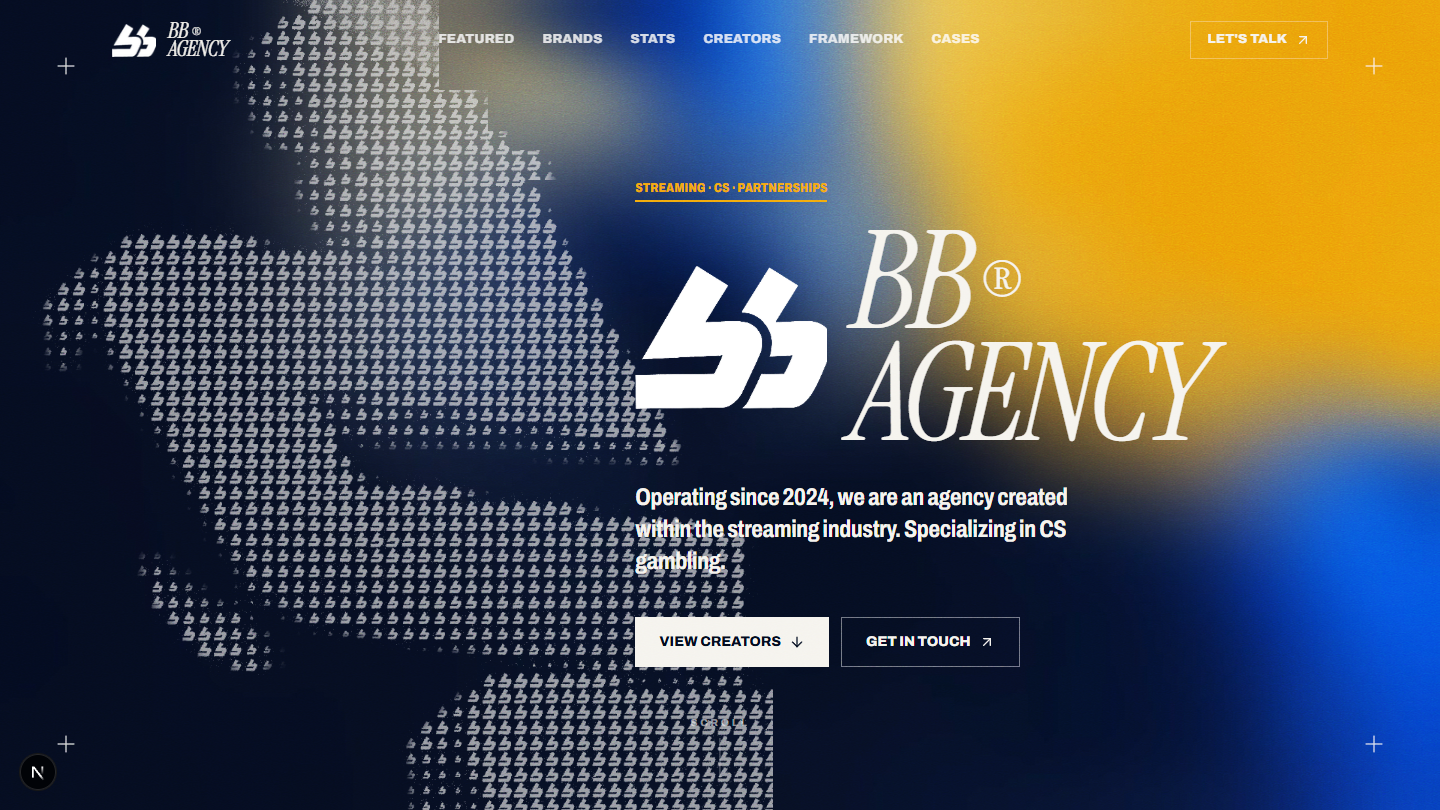
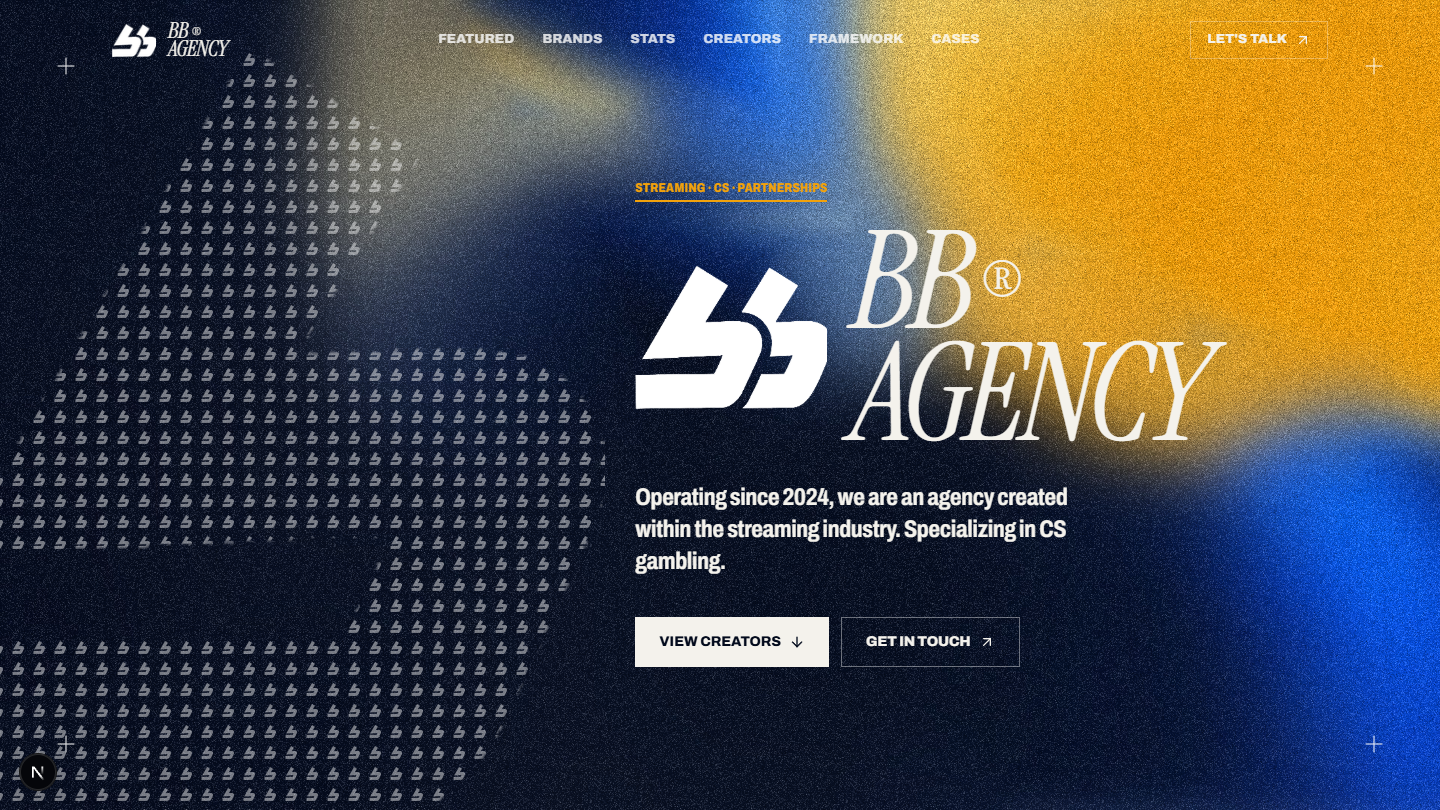
Retícula igual ao PDF: um 'b' grande feito de 'b' pequenos, longe do texto

diff --git a/src/app/page.tsx b/src/app/page.tsx
@@ -41,7 +41,7 @@ function Hero() {
     <section className="relative min-h-[100svh] overflow-hidden bg-ink flex items-center">
       <SlideBg n={1} />
       {/* BB gigante em pontinhos, como no slide 1 */}
-      <div className="halftone halftone-mark pointer-events-none absolute -left-[12vw] top-[8%] h-[95%] w-[80vw] opacity-60" aria-hidden />
+      <div className="halftone halftone-mark pointer-events-none absolute -left-[14vw] top-[6%] h-[96%] w-[64vw] opacity-45 max-lg:opacity-20" aria-hidden />
       <CornerCrosses />
 
       <div className={`${wrap} grid gap-10 lg:grid-cols-12 items-center pt-28 pb-20`}>
@@ -189,7 +189,7 @@ function Brands() {
     <section id="brands" className="relative overflow-hidden py-24 lg:py-32 bg-royal">
       <SlideBg n={4} />
       {/* BB gigante de mini logos, como no slide */}
-      <div className="halftone halftone-mark pointer-events-none absolute -left-[8%] top-[4%] h-[92%] w-[62%] opacity-60" aria-hidden />
+      <div className="halftone halftone-mark pointer-events-none absolute -left-[8%] top-[4%] h-[92%] w-[62%] opacity-30" aria-hidden />
       <CornerCrosses />
       <div className={`${wrap} grid gap-12 lg:grid-cols-12 items-center`}>
         <div className="lg:col-span-6">

diff --git a/src/app/globals.css b/src/app/globals.css
@@ -113,14 +113,14 @@ body {
 /* Retícula de pontinhos (o "halftone" das artes) */
 /* retícula do deck: mini logos BB em vez de pontinhos */
 .halftone {
-  background-image: url("/img/bb-dot.png");
-  background-size: 15px 13px;
+  background-image: url("/img/b-dot.png");
+  background-size: 21px 21px;
 }
 
 /* Halftone recortado no formato da logo */
 .halftone-mark {
-  -webkit-mask: url("/img/logo-mark.png") center / contain no-repeat;
-  mask: url("/img/logo-mark.png") center / contain no-repeat;
+  -webkit-mask: url("/img/b-mark.png") center / contain no-repeat;
+  mask: url("/img/b-mark.png") center / contain no-repeat;
 }
 
 /* Halftone recortado em texto gigante (números do Stats) */
